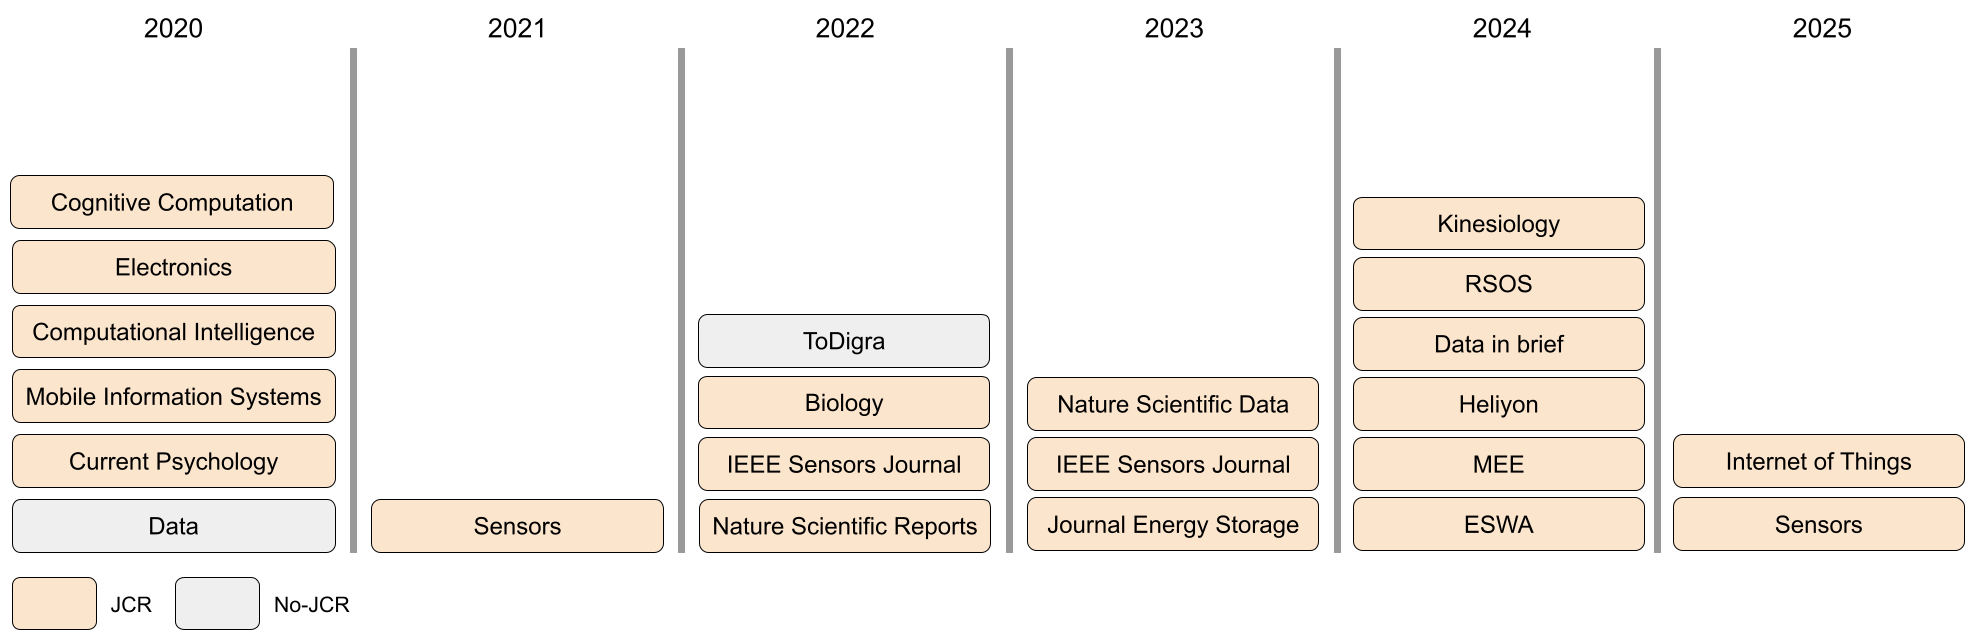
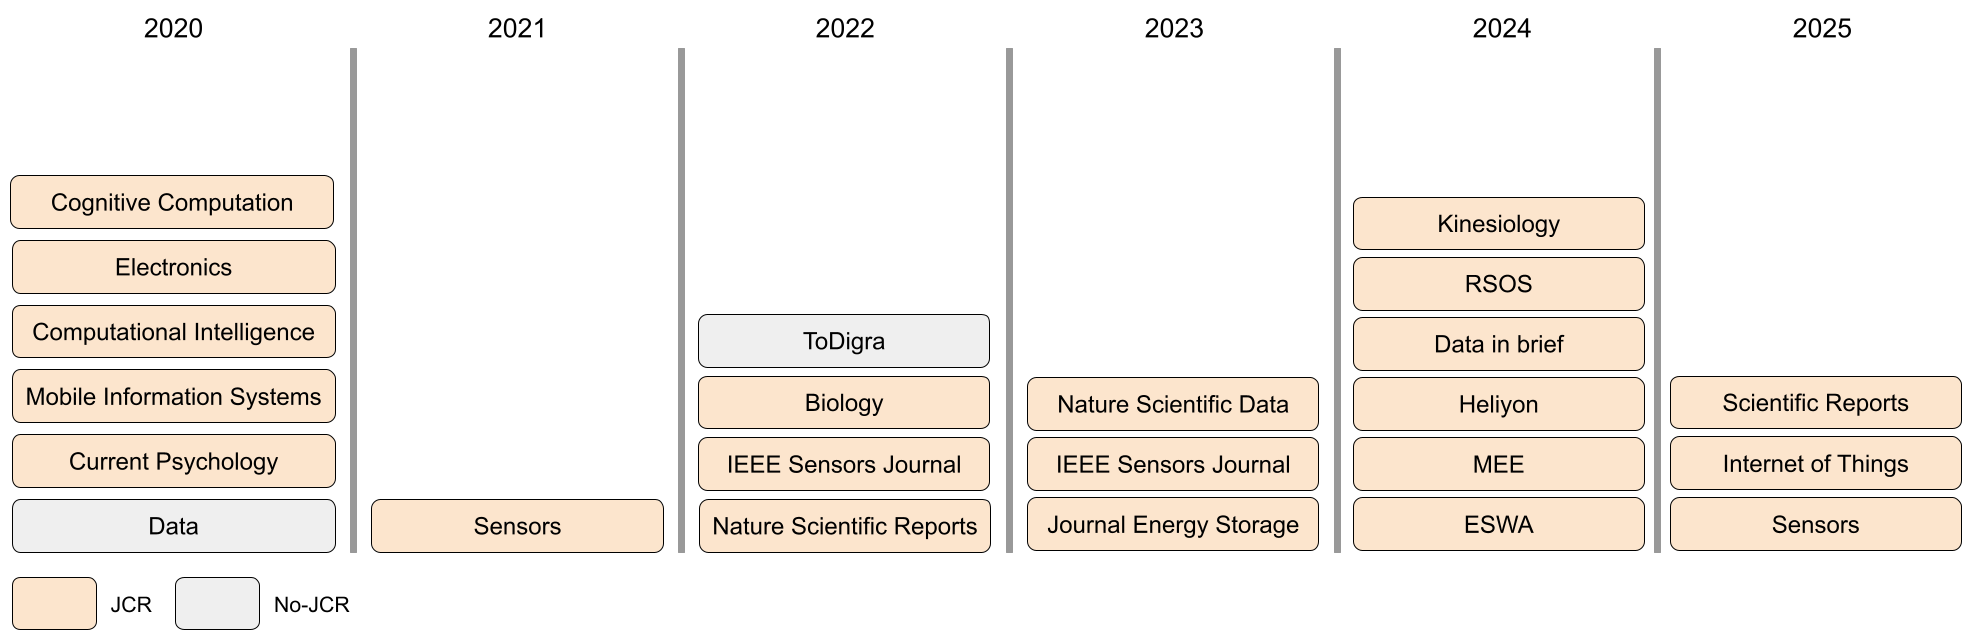
pubs

Changed region(s): [[0.8335, 0.5658, 1.0, 0.8636], [0.8952, 0.8041, 0.957, 0.8339]]

diff --git a/publications.html b/publications.html
@@ -98,12 +98,21 @@
 				</div>
 			</div>
 
+		<div class="row animate-box">
+				<div class="col-md-8 col-md-offset-2 text-center heading-section">
+					<p>Marta Balagué-Marmaña, Marina Martínez-Garcia, Laura Dempere-Marco. 
+					<b> Decoding the impact of aging on the interaction between visual attention and working memory.</b>
+					    Scientific Reports. Volume 15, Article number: 18619 (2025)
+						<a href="https://doi.org/10.1038/s41598-025-00305-x">https://doi.org/10.1038/s41598-025-00305-x</a>.
+				</div>
+			</div>
+
 
 		<div class="row animate-box">
 				<div class="col-md-8 col-md-offset-2 text-center heading-section">
 					<p>Nicola Saccomanno, Andrea Brunello, Angelo Montanari, Raul Montoliu, Emilio Sansano-Sansano, Adriano Moreira, Joaquín Torres-Sospedra. 
 					<b> Empirical Insights into the Limits and Challenges of Temporal Generalization in CSI-Based Wi-Fi Sensing</b>.
-					Internet of Things. 2025. IN PRESS.
+					Internet of Things. Volume 32, 2025. <a href="https://doi.org/10.1016/j.iot.2025.101634">https://doi.org/10.1016/j.iot.2025.101634</a>.
 				</div>
 			</div>
 
